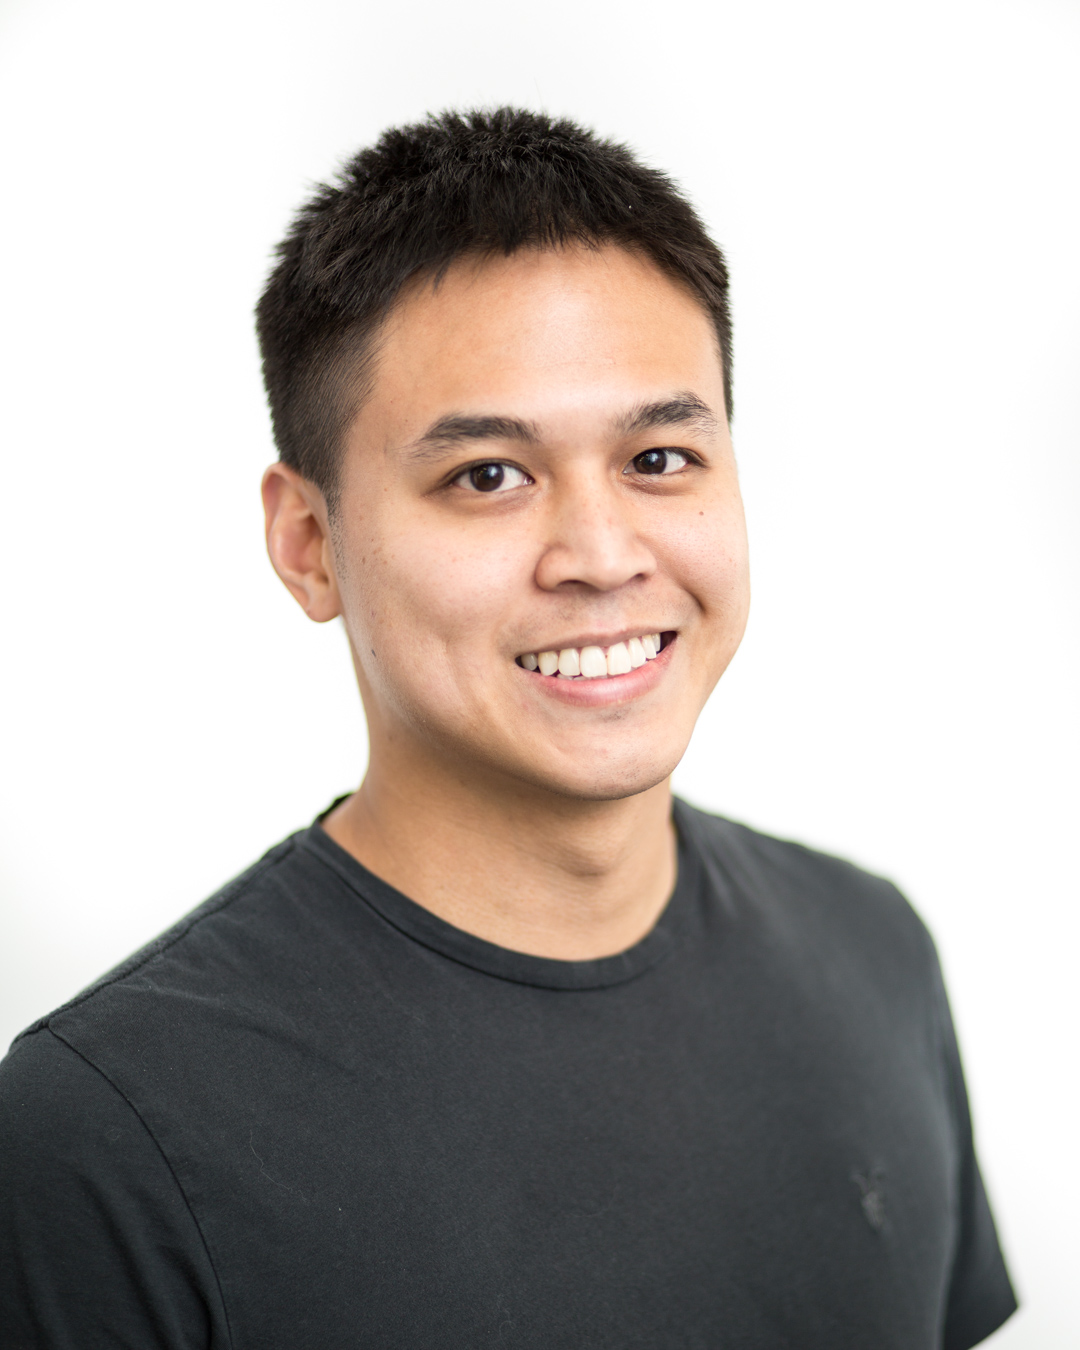
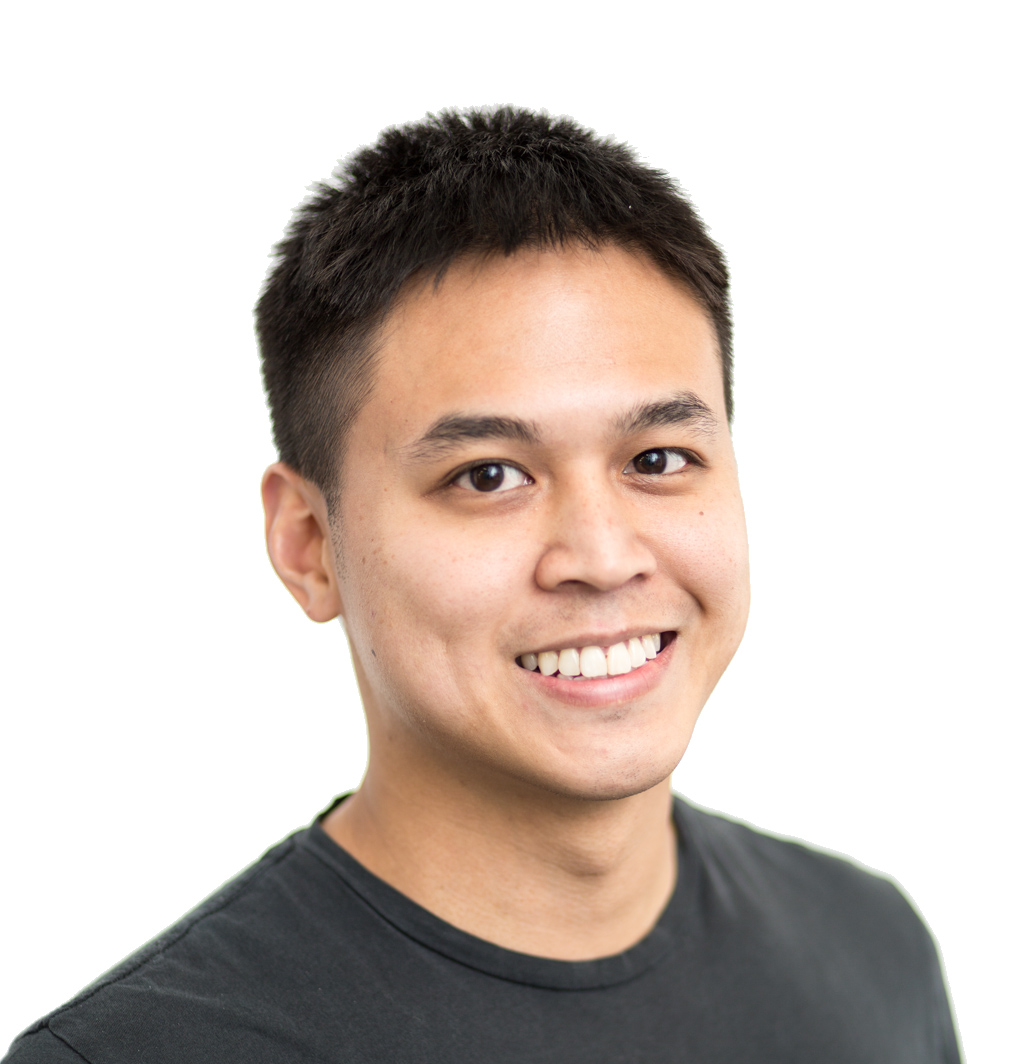
Some redesign of the About page

diff --git a/pages/about.tsx b/pages/about.tsx
@@ -1,9 +1,11 @@
 import LinkedInIcon from '@mui/icons-material/LinkedIn';
 import {
+  Avatar,
   Box,
   Button,
   Card,
   Container,
+  Divider,
   Grid,
   SxProps,
   Theme,
@@ -14,7 +16,6 @@ import { ReactNode } from 'react';
 import Layout from '../components/Layout';
 import Link from '../components/Link';
 import Section from '../components/Section';
-import profile from '../public/profile.jpg';
 import workDesk from '../public/workdesk.jpg';
 
 const AboutParagraph = ({
@@ -33,147 +34,171 @@ const AboutParagraph = ({
   </Typography>
 );
 
+const AboutHero = () => (
+  <Grid container spacing={{ xs: 4, lg: 6 }} display="flex" alignItems="center">
+    <Grid item xs={12} lg={4} order={{ xs: 2, lg: 1 }}>
+      <Avatar
+        alt="Andrew Lai"
+        src="/profile.jpg"
+        sx={(theme) => ({
+          width: 320,
+          height: 320,
+          borderColor:
+            theme.palette.mode === 'dark'
+              ? theme.palette.background.paper
+              : theme.palette.grey[300],
+          boxShadow: 3,
+        })}
+      />
+    </Grid>
+    <Grid item xs={12} lg={8} order={{ xs: 1, lg: 2 }}>
+      <Box>
+        <Typography variant="h2" component="span" fontWeight="fontWeightBold">
+          Hello! I&apos;m{' '}
+        </Typography>
+        <Typography
+          variant="h2"
+          component="span"
+          fontWeight="fontWeightBold"
+          color="primary.dark"
+        >
+          Andrew
+        </Typography>
+        <Typography variant="h5" sx={{ pt: 2 }}>
+          I&apos;m a software developer with a passion for frontend development.
+        </Typography>
+
+        <Button
+          sx={{ mt: 2 }}
+          variant="contained"
+          endIcon={<LinkedInIcon />}
+          href="https://www.linkedin.com/in/devajlai/"
+          target="_blank"
+          rel="sponsored noopener"
+        >
+          Say hello!
+        </Button>
+      </Box>
+    </Grid>
+  </Grid>
+);
+
+const ContactCard = () => (
+  <Box display="flex" justifyContent="center" mt={4}>
+    <Card
+      sx={{
+        padding: 4,
+      }}
+      variant="outlined"
+    >
+      <Typography variant="h6" fontWeight={300}>
+        Want to work together on something interesting?
+      </Typography>
+      <Box display="flex" justifyContent="center">
+        <Button
+          sx={{ mt: 2 }}
+          variant="contained"
+          endIcon={<LinkedInIcon />}
+          href="https://www.linkedin.com/in/devajlai/"
+          target="_blank"
+          rel="sponsored noopener"
+        >
+          Contact me on
+        </Button>
+      </Box>
+    </Card>
+  </Box>
+);
+
+const WorkExperience = () => (
+  <Grid container spacing={{ xs: 4, lg: 8 }} alignItems="center">
+    <Grid item xs={12} lg={6} display="flex" justifyContent="center">
+      <Box maxWidth="40rem" sx={{ background: 'white', p: 2, boxShadow: 2 }}>
+        <Image src={workDesk} alt="Work Desk" placeholder="blur" />
+      </Box>
+    </Grid>
+    <Grid item xs={12} lg={6}>
+      <Typography variant="h3" sx={{ pb: 4 }} textAlign="center">
+        Work Experience
+      </Typography>
+      <AboutParagraph>
+        I&apos;m currently working at{' '}
+        <Link href="https://www.duettocloud.com/">Duetto</Link> as a Principal
+        Software Engineer. We&apos;re in the hospitality business building
+        revenue management software. Although technically a full-stack engineer,
+        my focus and interests right now primarily lie in the frontend using
+        React, Express.js, GraphQL, and Webpack.
+      </AboutParagraph>
+      <AboutParagraph sx={{ mt: 4 }}>
+        Prior to Duetto, I worked at Stride Health for a little over 2 and a
+        half years helping independent workers find health, vision, and dental
+        insurance. And even before Stride, I was at Salesforce for over 7 years
+        learning everything about software development and establishing a strong
+        foundation.
+      </AboutParagraph>
+    </Grid>
+  </Grid>
+);
+
+const Background = () => (
+  <Grid container spacing={{ xs: 4, lg: 8 }} alignItems="center">
+    <Grid item xs={12} lg={8}>
+      <Typography variant="h3" pb={4}>
+        Background
+      </Typography>
+      <AboutParagraph>
+        I live in the San Francisco Bay Area, California with my wife, 2 sons,
+        and dog. Nehno is my personal website that I use to experiment and try
+        out various libraries and technologies. What the heck is <b>Nehno</b>{' '}
+        you ask? My first son used to always say &quot;nehno!&quot; and to this
+        day we still don&apos;t know what it means. If it&apos;s easy enough for
+        a toddler to say, I figured it&apos;d be easy enough for anyone to
+        remember.
+      </AboutParagraph>
+    </Grid>
+    <Grid item xs={12} lg={4}>
+      <Avatar
+        variant="rounded"
+        alt="Andrew Lai"
+        src="/kumo.jpg"
+        sx={(theme) => ({
+          margin: 'auto',
+          width: 250,
+          height: 250,
+          borderColor:
+            theme.palette.mode === 'dark'
+              ? theme.palette.background.paper
+              : theme.palette.grey[300],
+          boxShadow: 3,
+        })}
+      />
+    </Grid>
+  </Grid>
+);
+
 const AboutPage = () => (
   <Layout title="About | nehno.com">
-    <Section>
-      <Container sx={{ mb: 6 }}>
-        <Grid
-          container
-          spacing={{ xs: 4, lg: 6 }}
-          display="flex"
-          alignItems="center"
-        >
-          <Grid item xs={12} sm={5}>
-            <Box
-              borderRadius="20px"
-              position="relative"
-              overflow="hidden"
-              maxHeight={500}
-            >
-              <Image
-                src={profile}
-                alt="Andrew Profile"
-                width={640}
-                height={800}
-                layout="responsive"
-                objectFit="cover"
-                placeholder="blur"
-              />
-            </Box>
-          </Grid>
-          <Grid item xs={12} sm={7}>
-            <Box>
-              <Typography
-                variant="h2"
-                component="span"
-                fontWeight="fontWeightBold"
-              >
-                Hello! I&apos;m{' '}
-              </Typography>
-              <Typography
-                variant="h2"
-                component="span"
-                fontWeight="fontWeightBold"
-                color="primary.dark"
-              >
-                Andrew
-              </Typography>
-              <Typography variant="h5" sx={{ pt: 2 }}>
-                I&apos;m a software developer with a passion for frontend
-                development.
-              </Typography>
-            </Box>
-          </Grid>
-        </Grid>
-        <Typography variant="h3" sx={{ pt: { xs: 8, lg: 16 }, pb: 4 }}>
-          Work Experience
-        </Typography>
-        <Grid container spacing={{ xs: 4, lg: 8 }}>
-          <Grid item xs={12} lg={6}>
-            <AboutParagraph>
-              I&apos;m currently working at{' '}
-              <Link href="https://www.duettocloud.com/">Duetto</Link> as a
-              Principal Software Engineer. We&apos;re in the hospitality
-              business building revenue management software. Although
-              technically a full-stack engineer, my focus and interests right
-              now primarily lie in the frontend using React, Express.js,
-              GraphQL, and Webpack.
-            </AboutParagraph>
-            <AboutParagraph sx={{ mt: 4 }}>
-              Prior to Duetto, I worked at Stride Health for a little over 2 and
-              a half years helping independent workers find health, vision, and
-              dental insurance. And even before Stride, I was at Salesforce for
-              over 7 years learning Agile Development Methodology (ADM) and
-              establishing a strong foundation for software development.
-            </AboutParagraph>
-          </Grid>
-          <Grid
-            item
-            xs={12}
-            lg={6}
-            display="flex"
-            justifyContent="center"
-            alignItems="center"
-          >
-            <Box maxWidth="40rem">
-              <Image src={workDesk} alt="Work Desk" placeholder="blur" />
-            </Box>
-          </Grid>
-        </Grid>
-
-        <Typography variant="h3" sx={{ pt: { xs: 8, lg: 12 }, pb: 4 }}>
-          Background
-        </Typography>
-        <AboutParagraph>
-          I live in the San Francisco Bay Area, California with my wife, 2 sons,
-          and dog. Nehno is my personal website that I use to experiment and try
-          out various libraries and technologies. What the heck is <b>Nehno</b>{' '}
-          you ask? My first son used to always say &quot;nehno!&quot; and to
-          this day we still don&apos;t know what it means. If it&apos;s easy
-          enough for a toddler to say, I figured it&apos;d be easy enough for
-          anyone to remember.
-        </AboutParagraph>
-
-        <Box display="flex" justifyContent="center" mt={4}>
-          <Card
-            sx={{
-              padding: 4,
-            }}
-            variant="outlined"
-          >
-            <Typography variant="h6" fontWeight={300}>
-              Want to work together on something interesting?
-            </Typography>
-            <Box display="flex" justifyContent="center">
-              <Button
-                sx={{ mt: 2 }}
-                variant="contained"
-                endIcon={<LinkedInIcon />}
-                href="https://www.linkedin.com/in/devajlai/"
-                target="_blank"
-                rel="sponsored noopener"
-              >
-                Contact me on
-              </Button>
-            </Box>
-          </Card>
-        </Box>
+    <Section sx={{ py: { lg: 24 } }}>
+      <Container>
+        <AboutHero />
       </Container>
-      {/* <Box
-        sx={{
-          backgroundImage: "url('/workdesk.jpg')",
-          backgroundRepeat: 'no-repeat',
-          backgroundSize: 'cover',
-          height: {
-            xs: '25rem',
-            sm: '25rem',
-            md: '30rem',
-            lg: '35rem',
-            xl: '45rem',
-          },
-          backgroundPosition: 'center',
-        }}
-      /> */}
+    </Section>
+    <Section inset sx={{ py: { lg: 16 } }}>
+      <Container>
+        <Background />
+      </Container>
+    </Section>
+
+    <Section sx={{ py: { lg: 16 } }}>
+      <Container>
+        <WorkExperience />
+      </Container>
+    </Section>
+    <Divider />
+    <Section sx={{ py: { lg: 4 }, mb: 4 }}>
+      <Container>
+        <ContactCard />
+      </Container>
     </Section>
   </Layout>
 );

diff --git a/components/Section.tsx b/components/Section.tsx
@@ -1,14 +1,25 @@
-import { Box, styled } from '@mui/material';
-import { SxProps, Theme } from '@mui/material/styles';
-import { ReactNode } from 'react';
+import { Box, BoxProps, styled } from '@mui/material';
 
-interface SectionProps {
-  children?: ReactNode;
-  sx?: SxProps<Theme>;
+interface SectionProps extends BoxProps {
+  inset?: boolean;
 }
 
-const StyledBox = styled(Box)(({ theme }) => ({
-  padding: theme.spacing(4, 0),
+const StyledBox = styled(Box, {
+  shouldForwardProp: (prop) => prop !== 'inset',
+})<SectionProps>(({ theme, inset }) => ({
+  padding: theme.spacing(6, 0),
+  ...(inset && {
+    background:
+      theme.palette.mode === 'dark'
+        ? theme.palette.background.paper
+        : theme.palette.grey[100],
+    boxShadow: 'inset 0px 1px 4px 0px rgb(0 0 0 / 10%)',
+    borderBottom: `1px solid ${
+      theme.palette.mode === 'dark'
+        ? theme.palette.grey[900]
+        : theme.palette.grey[300]
+    }`,
+  }),
   [theme.breakpoints.up('md')]: {
     padding: theme.spacing(8, 0),
   },
@@ -17,8 +28,10 @@ const StyledBox = styled(Box)(({ theme }) => ({
   },
 }));
 
-const Section = ({ children, sx = [] }: SectionProps) => (
-  <StyledBox sx={[...(Array.isArray(sx) ? sx : [sx])]}>{children}</StyledBox>
+const Section = ({ children, sx = [], inset = false }: SectionProps) => (
+  <StyledBox inset={inset} sx={[...(Array.isArray(sx) ? sx : [sx])]}>
+    {children}
+  </StyledBox>
 );
 
 export default Section;

diff --git a/components/AppNav.tsx b/components/AppNav.tsx
@@ -4,7 +4,11 @@ import NavLinks from './NavMenu';
 
 const StyledAppBar = styled(AppBar)(({ theme }) => ({
   boxShadow: 'none',
-  borderBottom: `1px solid ${theme.palette.grey[300]}`,
+  borderBottom: `1px solid ${
+    theme.palette.mode === 'dark'
+      ? theme.palette.divider
+      : theme.palette.grey[300]
+  }`,
 }));
 
 const AppNav = () => (
